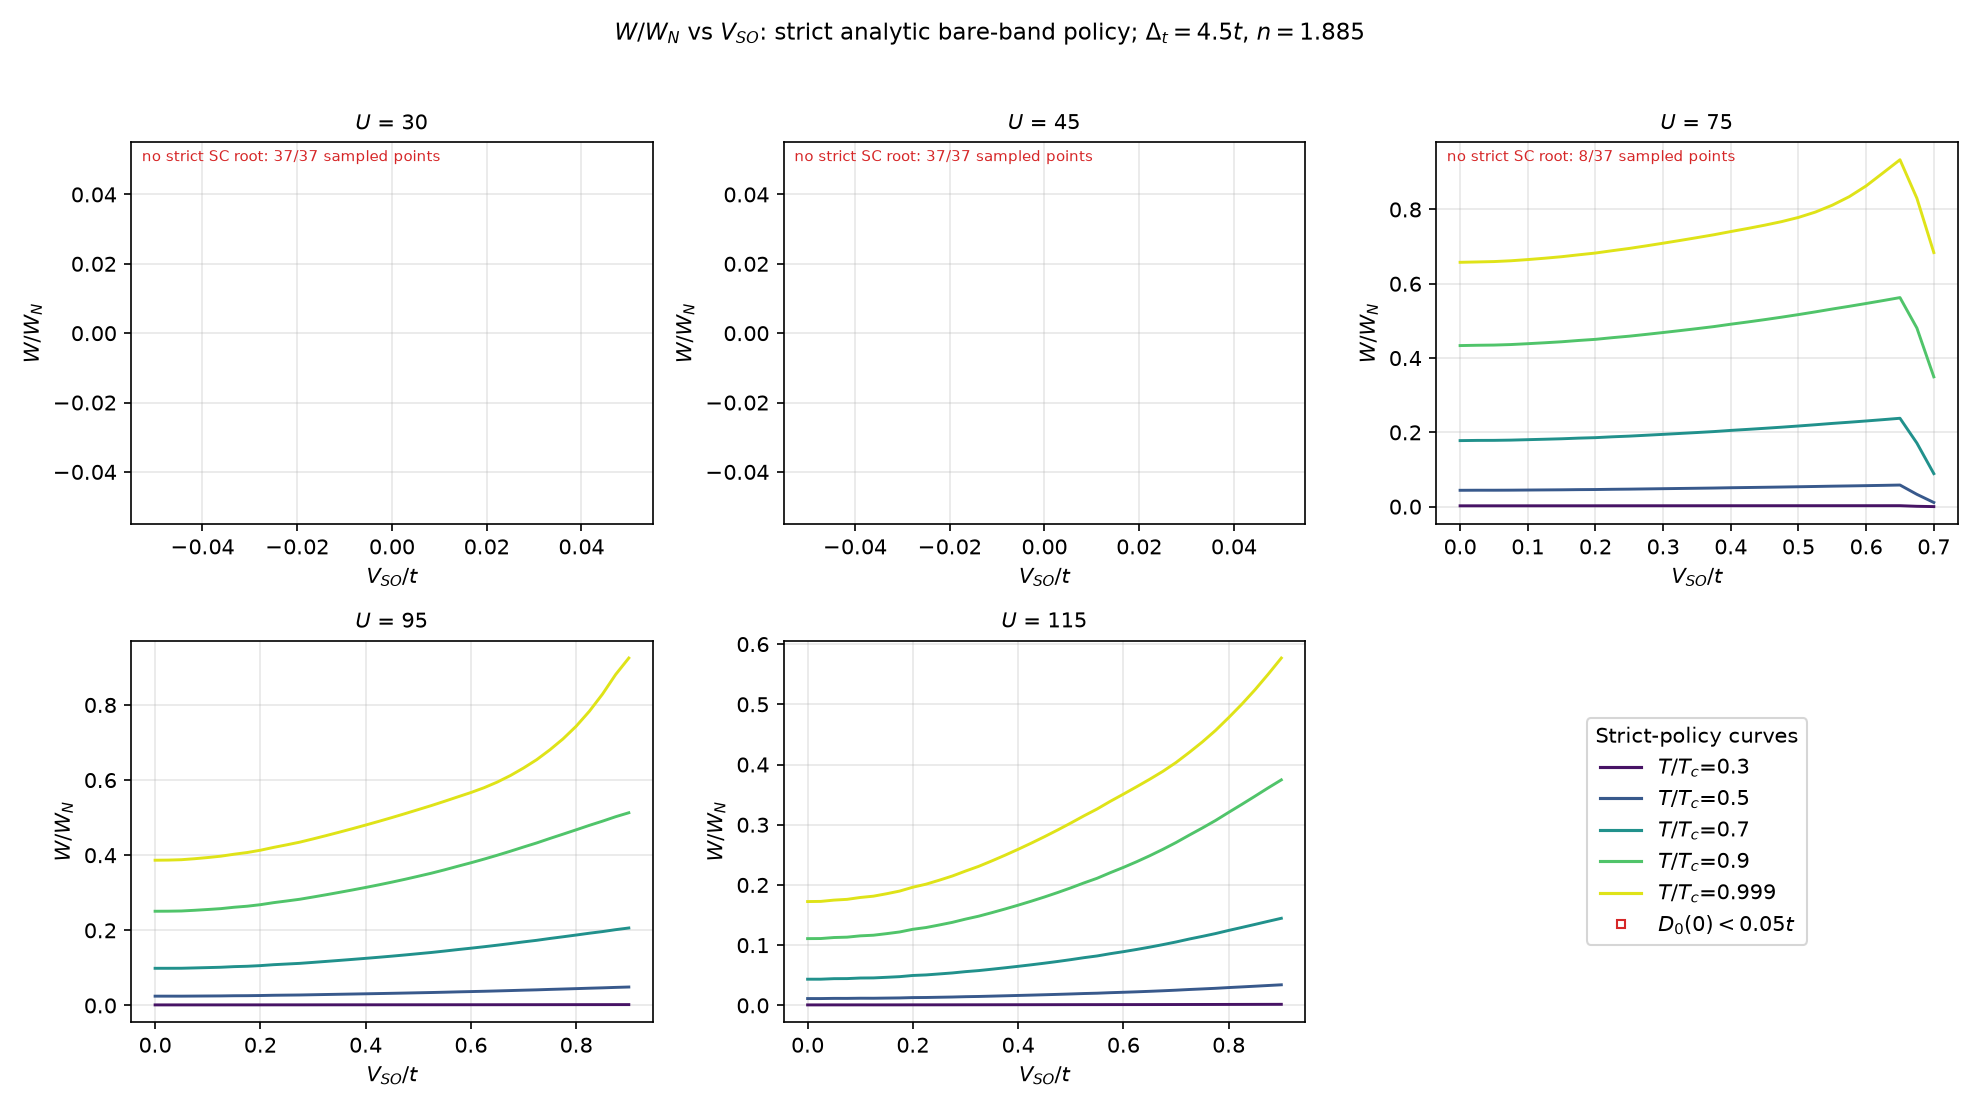
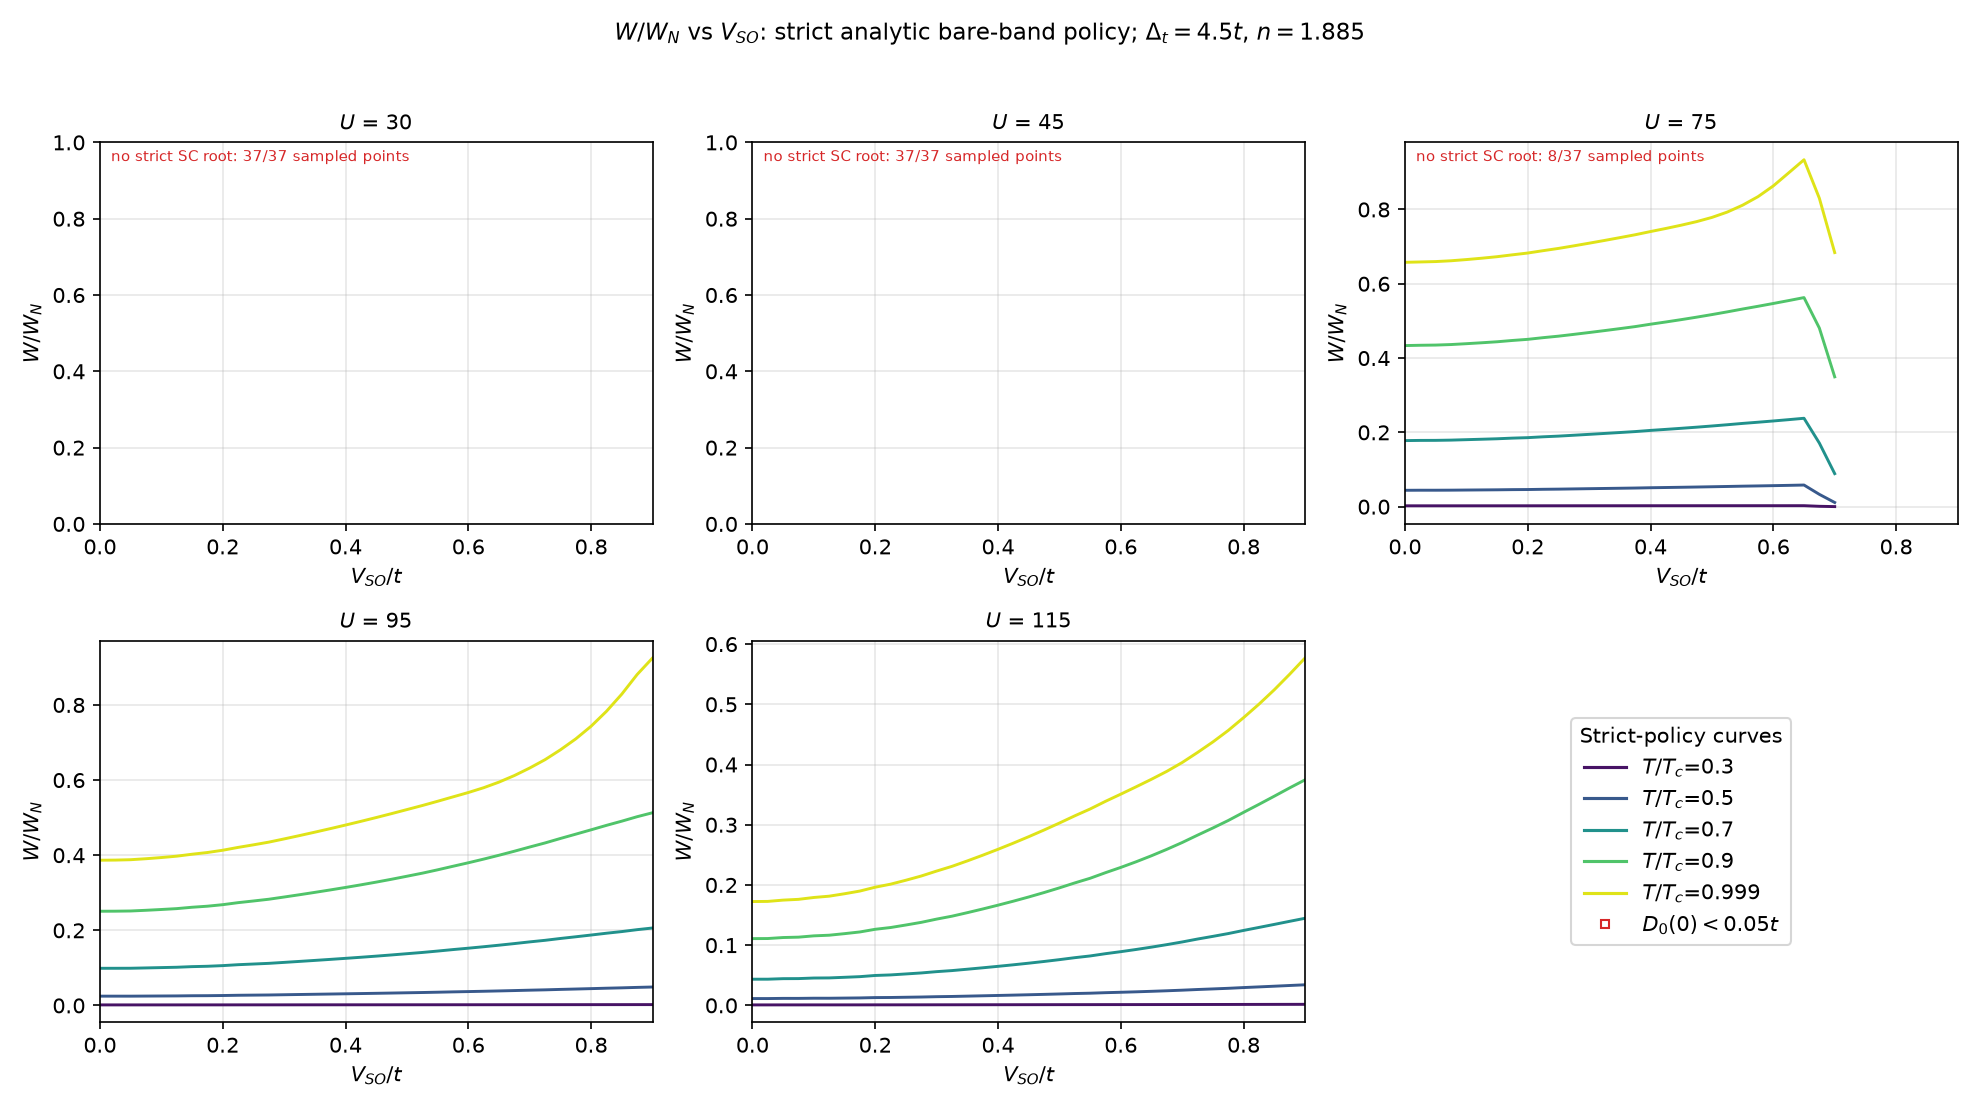
Fix axes for empty strict family panels

diff --git a/project/ultrasonic/regenerate_strict_family_figures.py b/project/ultrasonic/regenerate_strict_family_figures.py
@@ -193,6 +193,7 @@ def _plot_uvso(data, panels, panel_kind, x_kind, filename, title):
             ys = [r["ratio"][j] if r.get("Tc", 0.0) > 0 and r.get("ratio") else np.nan for r in rows]
             if xs:
                 ax.plot(xs, ys, "-", lw=1.4, color=col, label=f"$T/T_c$={frac:g}")
+                ax.set_xlim(min(xs), max(xs))
                 small = [(x, y) for x, y, r in zip(xs, ys, rows)
                          if np.isfinite(y) and float(r.get("D0_0", 1.0)) < 0.05]
                 if small:
@@ -203,6 +204,10 @@ def _plot_uvso(data, panels, panel_kind, x_kind, filename, title):
         ax.set_xlabel(kl); ax.set_ylabel("$W/W_N$"); ax.set_title(f"{pl} = {pv:g}", fontsize=10)
         ax.grid(alpha=0.3)
         subset = [r for r in data if r[panel_kind] == pv]
+        if not any(float(r.get("Tc") or 0.0) > 0.0 and
+                   any(y is not None and np.isfinite(float(y)) for y in r.get("ratio", []))
+                   for r in subset):
+            ax.set_ylim(0.0, 1.0)
         n_excluded = sum(float(r.get("Tc") or 0.0) <= 0.0 for r in subset)
         if n_excluded:
             ax.text(0.02, 0.98, f"no strict SC root: {n_excluded}/{len(subset)} sampled points",
